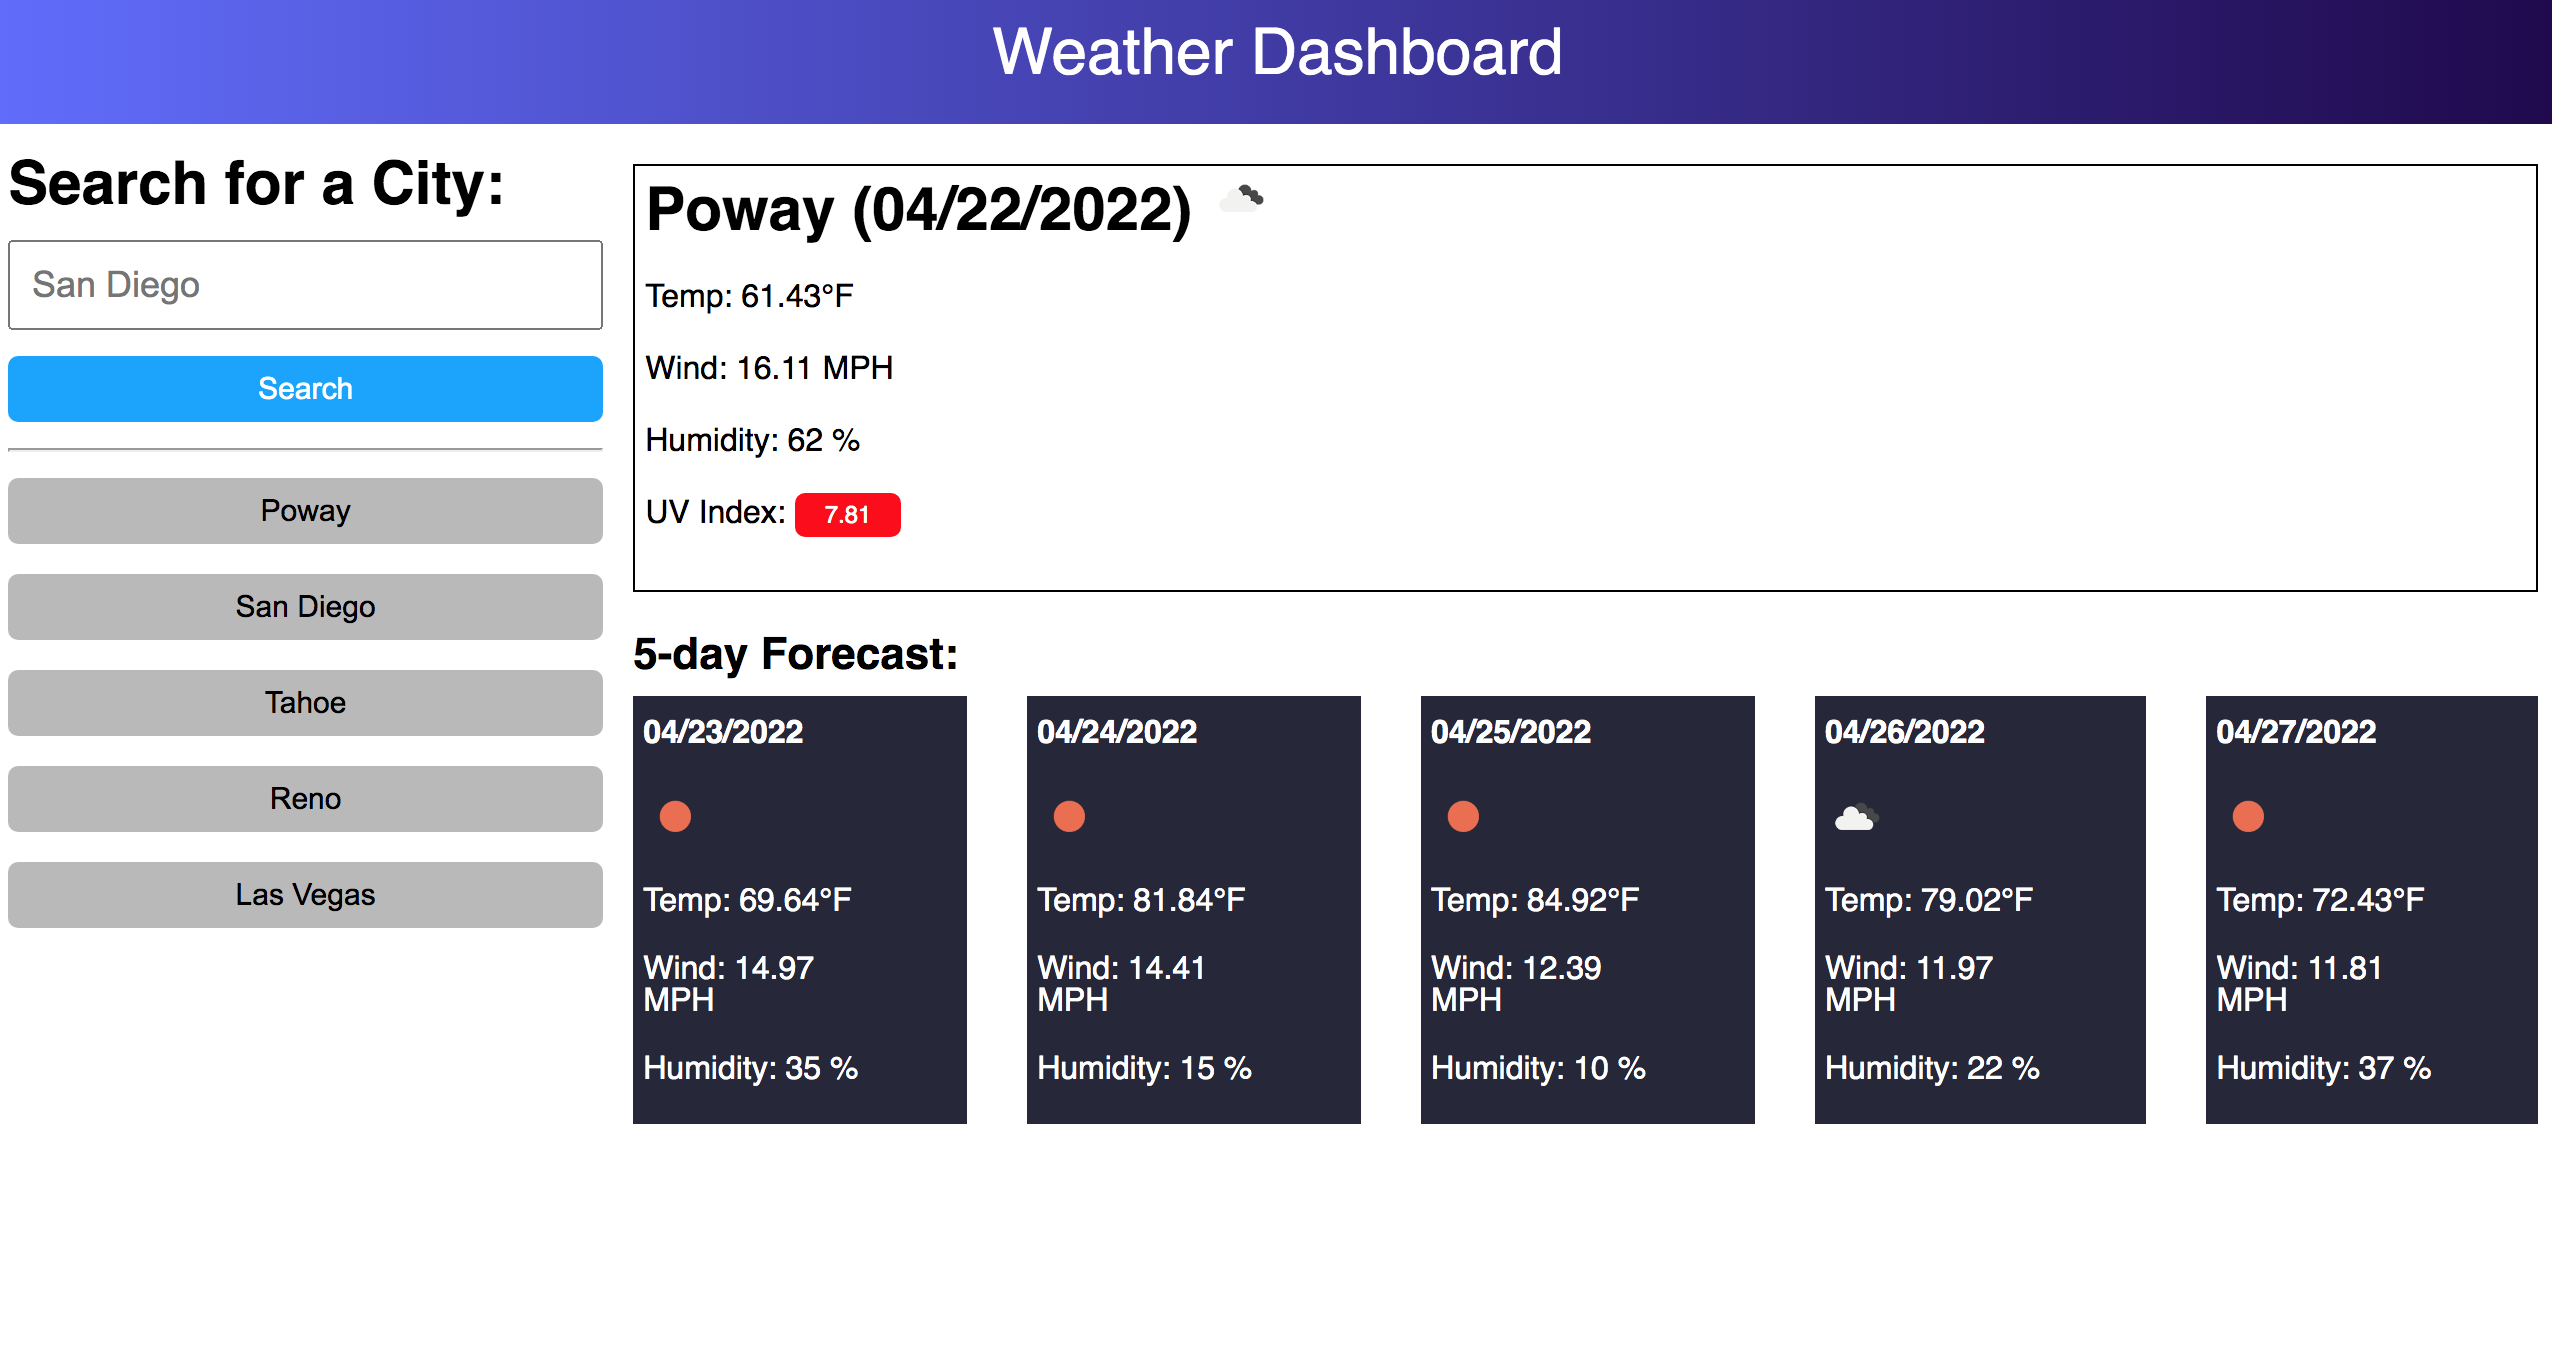
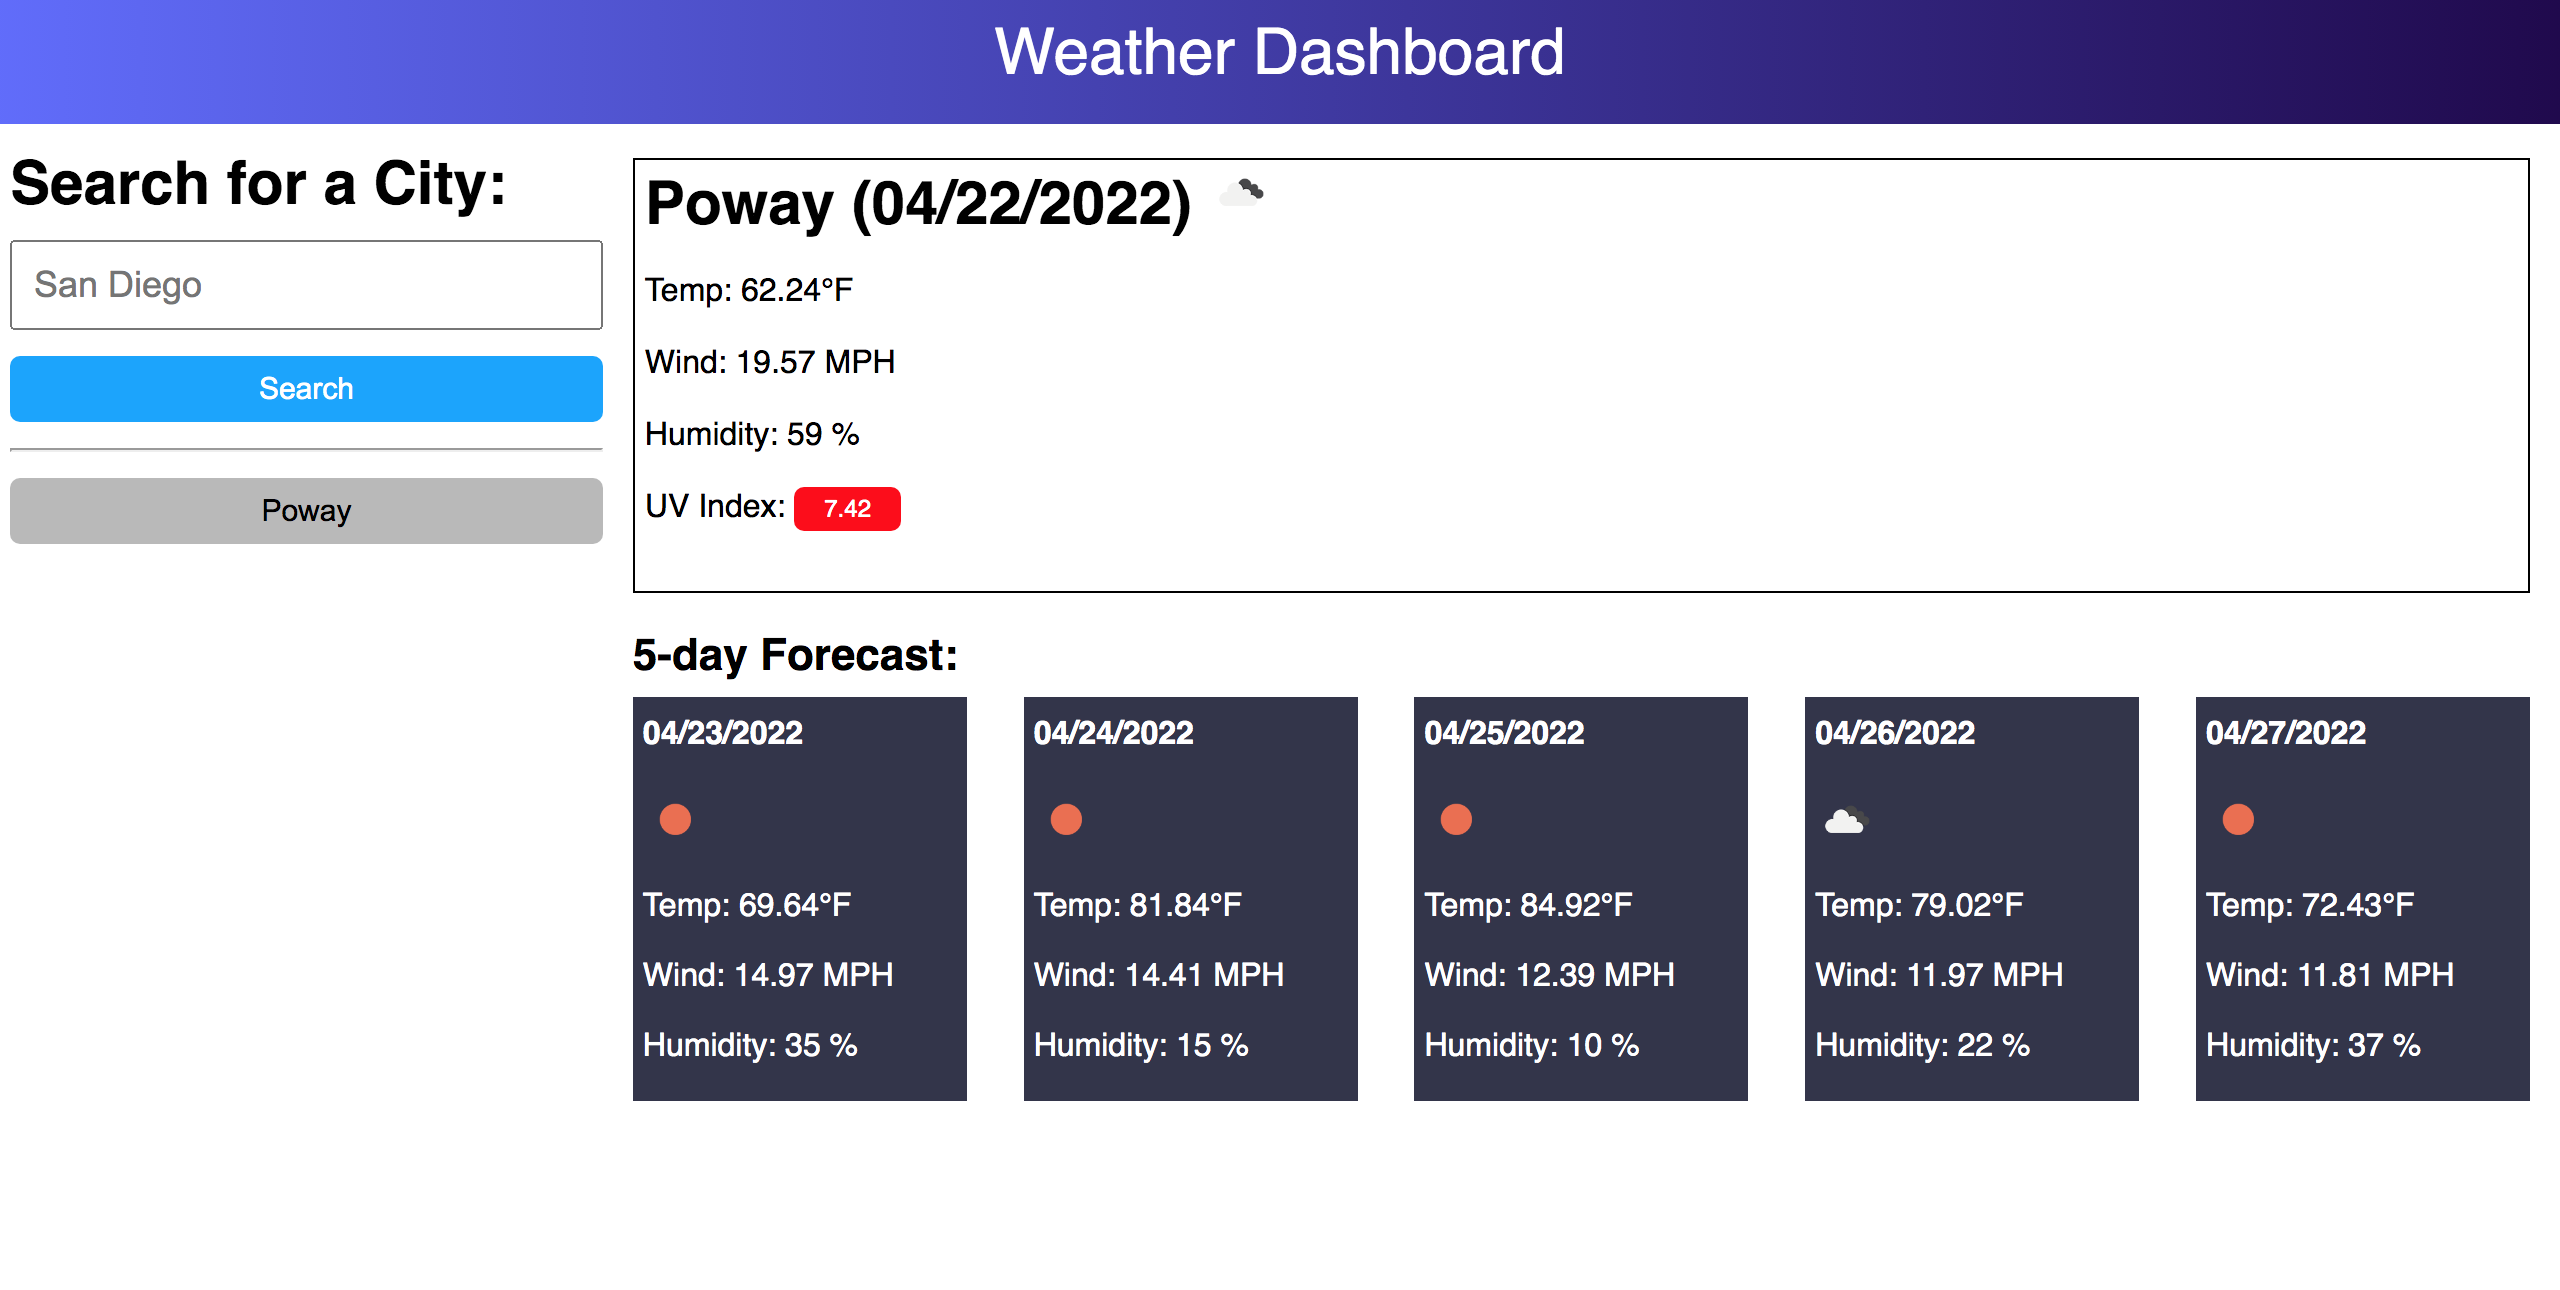
updated README preview, small style adjustments

Changed region(s): [[0.0, 0.093, 1.0, 0.8682], [0.4024, 0.031, 0.6191, 0.062]]

diff --git a/assets/css/style.css b/assets/css/style.css
@@ -100,10 +100,10 @@ button {
 }
 
 .forecastDay {
-    background-color: rgb(38, 39, 56);
+    background-color: rgb(51, 52, 75);
     color: white;
     width: 17.6%;
-    padding: 10px 37px 20px 5px;
+    padding: 10px 0 20px 5px;
     display: flex;
     flex-direction: column;
     gap: 19px;
